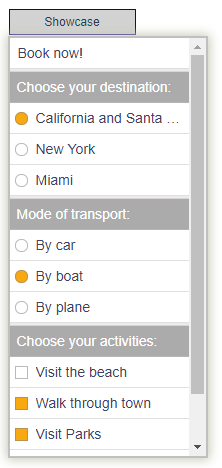
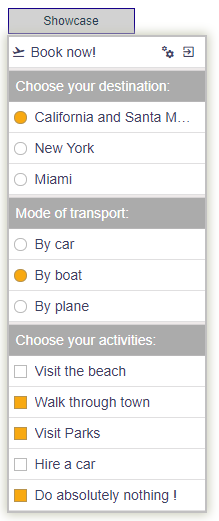
v 0.0.8

diff --git a/src/data.ts b/src/data.ts
@@ -56,10 +56,10 @@ const getItems = (context: string = '') => {
 		arr.push(new RadioboxItem("keyO3", "Amsterdam is the best place to live", "C"));
 	}
 	if (context == "showcase") {
-		var item = new ActionItem("booknow", "Book now!", "fa-plane");
+		var item = new ActionItem("booknow", "Book now!", "mdi-airplane-takeoff");
 		item.data = { pos: context };                            // save some random data with this item..
-		item.addRightImage("fa-cog", "settings");
-		item.addRightImage("fa-window-close-o", "exit the application");
+		item.addRightImage("mdi-cogs", "settings");
+		item.addRightImage("mdi-exit-to-app", "exit the application");
 		arr.push(item);
 		arr.push(new SeperatorItem());
 		arr.push(new HeaderItem("Choose your destination:"));

diff --git a/src/components/index.js b/src/components/index.js
@@ -2,12 +2,7 @@ import DropDownMenu, { DropDownInfo } from "./DropDownMenu.vue"
 import { DropDownItemBase, ActionItem, HeaderItem, DropDownDirection } from "./DropDownItems.ts";
 import { getTestItems } from '../data'
 import { delay, createGuidRight5 } from '../utils'
-import Banner from "./Banner.vue";
 
-export default { Banner, DropDownMenu, DropDownInfo, DropDownItemBase, ActionItem, 
+export default { DropDownMenu, DropDownInfo, DropDownItemBase, ActionItem, 
 		HeaderItem, DropDownDirection, getTestItems, delay, createGuidRight5 }
 
-//export default { DropDownMenu, DropDownInfo }
-// export default { DropDownItemBase, ActionItem, HeaderItem, DropDownDirection }
-// export default { getTestItems }
-// export default { delay }

diff --git a/src/App.vue b/src/App.vue
@@ -109,8 +109,9 @@ export default Vue.extend({
         this.showNotification(msg);
       },
       async getAsyncItems() {
-        await delay(1000);
-        return this.myitems_dr;
+        await delay(1000);      // call an api for data (async)
+        // .. convert the data to DropDownItems ...
+        return this.myitems_dr; // return these items
       },
       async showNotification(msg) {
         this.msg = msg;

diff --git a/src/components/DropDownMenu.vue b/src/components/DropDownMenu.vue
@@ -41,7 +41,7 @@ import { ActionItem, DropDownItemBase, DropDownDirection, RightImageInfo } from 
 import { getCoords } from "../utils";
 import '@mdi/font/css/materialdesignicons.css';
 
-// little trick bypass bl** typescript checking of $element....
+// little trick bypassing bl** typescript checking of $element....
 export class MyData {
   public $element: any = null;
   public show: boolean = false;

diff --git a/src/components/DropDownItems.ts b/src/components/DropDownItems.ts
@@ -104,6 +104,7 @@ export class ActionItem extends DropDownItemBase {
     }
 
     public click(items: DropDownItemBase[]): boolean {
+        debugger;
         if (this.isDisabled) return false;
         if (this.clicked) this.clicked(this);
         return true;

diff --git a/README.md b/README.md
@@ -12,7 +12,7 @@
 * and much more!
 
 ## -------------------------------------------------------------
-## ------------------ Work in PROGRESS --------------------
+## --------------- Under active development ---------------
 ## -------------------------------------------------------------
 
 
@@ -21,6 +21,15 @@ Have a look at the [demo-page](http://www.vuedropdown.marcelheeremans.com) to ch
 
 ## Typescript
 The code snippets below are extracts from my Typescript test project.  An `index.d.ts` file will be included soon to provide intellisense in your code.
+
+# Setup
+
+```javascript
+import Vue from 'vue';
+import { DropDownMenu, DropDownInfo, DropDownItemBase, HeaderItem, ActionItem, CheckboxItem, RadioboxItem, SeperatorItem } from "vue-dropdown-advanced";
+import '@mdi/font/css/materialdesignicons.css';
+```
+Note: don't forget to import the materialdesignicons.css (more on this later)
 
 # Using the Vue DropDown
 
@@ -68,7 +77,104 @@ export default Vue.extend({
 ```
 Bit boring, let's see what else we can do. 
 
+## Show-casing the dropddown advanced
 
+![down-right.png](http://www.vuedropdown.marcelheeremans.com/pics/showcase.png)
+
+That is more like it!
+
+Again, we 'attach' a DropDownMenu menu to the 'Example Down Right' div by nesting it within its div as shown in the Vue template below.
+
+```javascript
+/// The 'template' part of the Vue file
+<div class='button example-dr'>
+	Showcase
+	<drop-down-menu v-bind:items="fixedItems" :onClick="this.onClick">  </drop-down-menu>
+</div>
+```
+
+Notice we have bound the 'items' property to the 'fixedItems' data property of the vue model.  When the parent is 'clicked' the onClick handler is called with the item itself but also any other dropdown state.
+
+```javascript
+/// The 'javascript' part of the Vue file		
+var item = new ActionItem("booknow", "Book now!", "mdi-airplane-takeoff");
+item.data = { pos: context };                            // save some random data with this item..
+item.addRightImage("mdi-cogs", "settings");
+item.addRightImage("mdi-exit-to-app", "exit the application");
+
+fixedItems.push(item);
+fixedItems.push(new SeperatorItem());
+fixedItems.push(new HeaderItem("Choose your destination:"));
+fixedItems.push(new RadioboxItem("california", "California and Santa Monica", "A"));
+fixedItems.push(new RadioboxItem("newyork", "New York", "A"));
+fixedItems.push(new RadioboxItem("miami", "Miami", "A"));
+fixedItems.push(new SeperatorItem());
+fixedItems.push(new HeaderItem("Mode of transport:"));
+fixedItems.push(new RadioboxItem("car", "By car", "B"));
+fixedItems.push(new RadioboxItem("boat", "By boat", "B", true));
+fixedItems.push(new RadioboxItem("plane", "By plane", "B"));
+fixedItems.push(new SeperatorItem());
+fixedItems.push(new HeaderItem("Choose your activities:"));
+fixedItems.push(new CheckboxItem("beach", "Visit the beach"));
+fixedItems.push(new CheckboxItem("town", "Walk through town"));
+fixedItems.push(new CheckboxItem("park", "Visit Parks"));
+fixedItems.push(new CheckboxItem("hirecar", "Hire a car"));
+fixedItems.push(new CheckboxItem("nothing", "Do absolutely nothing !"));
+```
+
+```javascript
+
+onClick(info: DropDownInfo) {
+	// info.item		-> the selected item
+	// info.items		-> all the source items that are shown
+	// info.imageOnRight	-> (RightImageInfo) details regarding the right image if it was clicked
+},
+
+```
+
+Note the `groupBy` property available on Radiobox items.  Identical `groupBy` values will force a mutually exclusive group to be created, ie only a single radiobox can be 'checked' within a group. Hence in the example above we have two groups; one with groupBy marker 'A', the other with value 'B'.  These could be any unique strings.
+			
+
+
+## Dropdown Direction
+
+![down-right.png](http://www.vuedropdown.marcelheeremans.com/pics/merged.png)
+
+```javascript
+/// The 'template' part of the Vue file
+<div class='button'>
+   Example Up Left
+   <drop-down-menu v-bind:items="myitems_ul" :onClick="this.onClick" direction="up-left"></drop-down-menu>
+</div>
+```
+The direction of the dropdown is determined by the `direction` property.  The default is `down-right` but it can be set to `down-left`, `up-left` or `up-right`.
+
+## Retrieving dropdown items asynchronously
+
+By binding a function to the itemsAsync prop of the DropDownMenu it will call this upon selecting and expects an array of DropDown items to be returned.  This is extremely useful when items can only be determined at runtime.
+
+```javascript
+/// The 'template' part of the Vue file
+<div class='button'>
+   Example Up Left
+   <drop-down-menu v-bind:itemsAsync="getAsyncItems" :onClick="this.onClick">  </drop-down-menu>
+</div>
+```
+
+```javascript
+
+  methods: {
+      onClick(info: DropDownInfo) {
+        ...
+      },
+      async getAsyncItems() {
+        await delay(1000);      // call an api for data (async)
+        // .. convert the data to DropDownItems ...
+        return this.myitems_dr; // return these items
+      },
+  },
+		
+```
 
 
 # History
